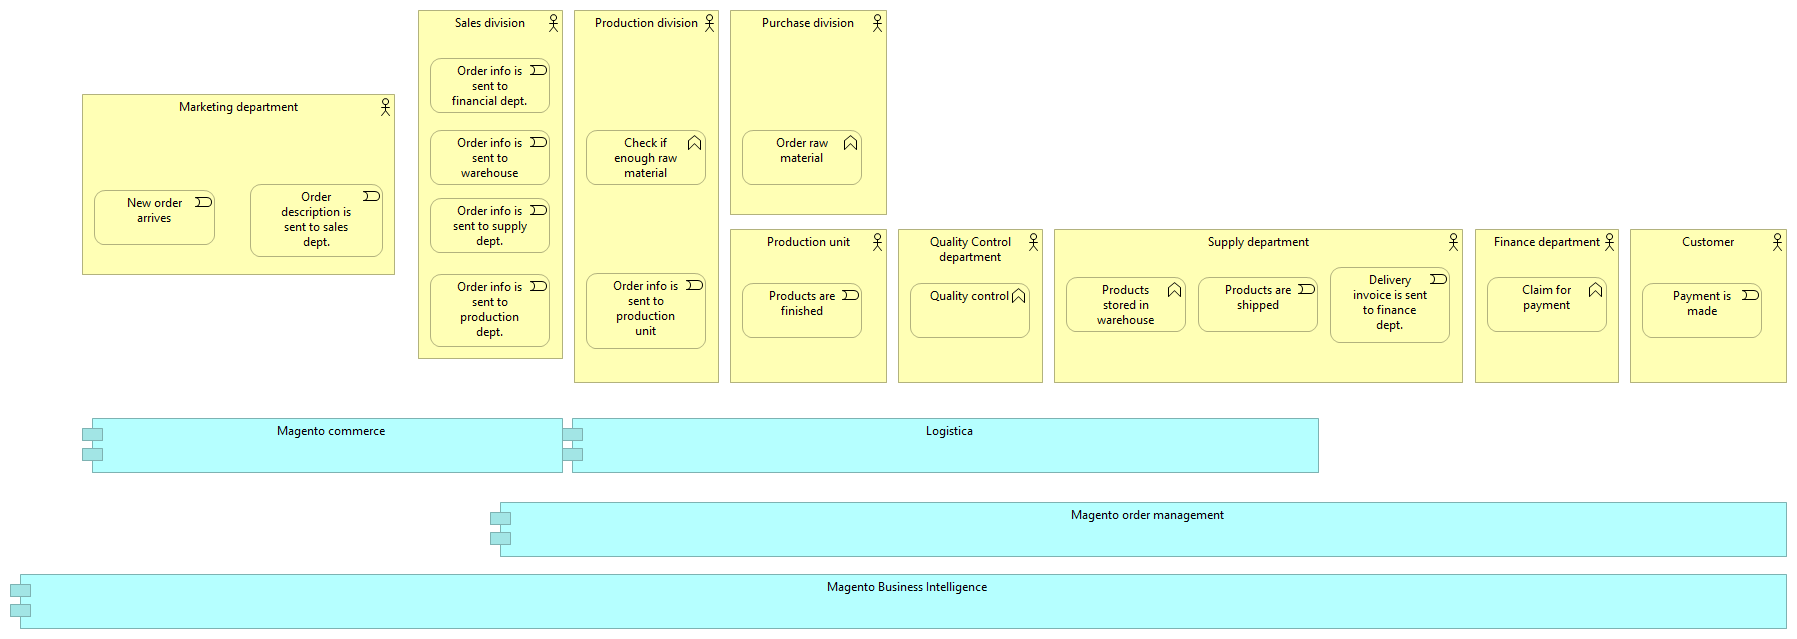
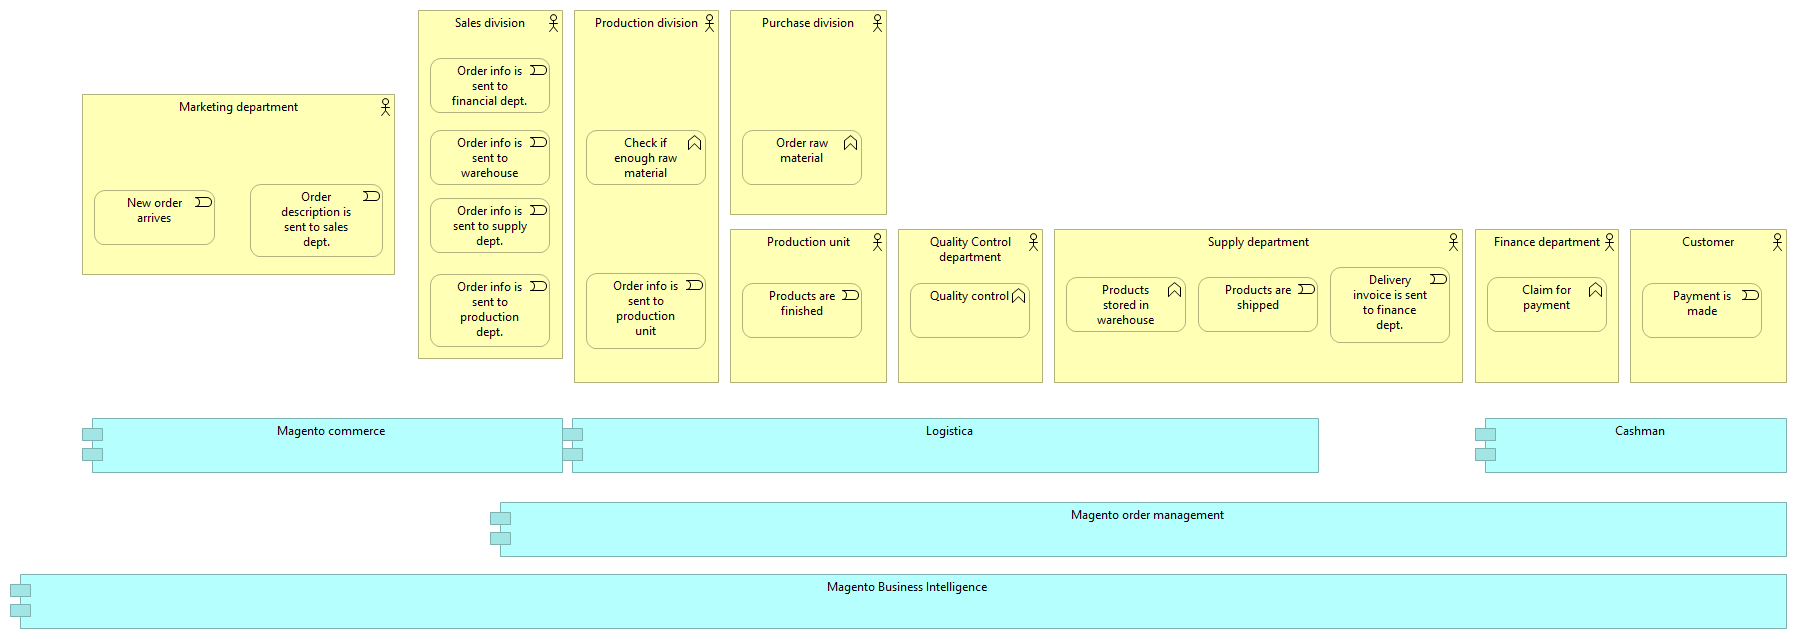
fic

Changed region(s): [[0.8102, 0.6541, 0.9972, 0.7433]]

diff --git a/42f59c99-faf0-4d5c-b5a2-6ce0e822152d/views/bc4e07df-153d-4a55-b80c-66b8556efbca.html b/42f59c99-faf0-4d5c-b5a2-6ce0e822152d/views/bc4e07df-153d-4a55-b80c-66b8556efbca.html
@@ -34,33 +34,35 @@
 		    <!-- If this is a digram model (has children and no bounds) show the image -->
 			   <img class="diagram" src="../images/bc4e07df-153d-4a55-b80c-66b8556efbca.png" alt="Current data sources and input methods" usemap="#bc4e07df-153d-4a55-b80c-66b8556efbcamap"/>
 			   <map name="bc4e07df-153d-4a55-b80c-66b8556efbcamap">
-				  		<area shape="rect" coords="910,490,1030,545" href="../elements/2fd25062-9433-4f65-b8ba-7481f6d7f87b.html"  target="element">
-				  		<area shape="rect" coords="1354,562,1474,617" href="../elements/cc09da40-db86-43a6-92d5-107572056f6c.html"  target="element">
-				  		<area shape="rect" coords="910,562,1030,617" href="../elements/e7a264f1-4df1-4139-97e9-daf2ff82ac94.html"  target="element">
-				  				<area shape="rect" coords="442,118,562,173" href="../elements/3e857f4e-97c8-4d80-89ca-6b3173587f4b.html"  target="element">
-				  				<area shape="rect" coords="442,58,562,113" href="../elements/3b25b6bc-363c-41df-812b-6ef97e0f71d7.html"  target="element">
-				  				<area shape="rect" coords="442,178,562,239" href="../elements/422ab703-66ee-474a-a261-2182505d0774.html"  target="element">
+				  		<area shape="rect" coords="944,524,1064,579" href="../elements/2fd25062-9433-4f65-b8ba-7481f6d7f87b.html"  target="element">
+				  		<area shape="rect" coords="1388,596,1508,651" href="../elements/cc09da40-db86-43a6-92d5-107572056f6c.html"  target="element">
+				  		<area shape="rect" coords="944,596,1064,651" href="../elements/e7a264f1-4df1-4139-97e9-daf2ff82ac94.html"  target="element">
+				  				<area shape="rect" coords="476,152,596,207" href="../elements/3e857f4e-97c8-4d80-89ca-6b3173587f4b.html"  target="element">
+				  				<area shape="rect" coords="476,92,596,147" href="../elements/3b25b6bc-363c-41df-812b-6ef97e0f71d7.html"  target="element">
+				  				<area shape="rect" coords="476,212,596,273" href="../elements/422ab703-66ee-474a-a261-2182505d0774.html"  target="element">
 
-				  		<area shape="rect" coords="394,10,611,431" href="../elements/54daba34-8e5e-4b3a-aa06-c3dce19e5199.html"  target="element">
-				  				<area shape="rect" coords="1222,178,1342,233" href="../elements/aa11c7f0-06c8-4865-ba02-6b9973770f7b.html"  target="element">
-				  				<area shape="rect" coords="1222,310,1342,365" href="../elements/97299300-cbb5-47a2-a4d8-c7b2a0fefa15.html"  target="element">
-				  				<area shape="rect" coords="1222,58,1342,113" href="../elements/3b25b6bc-363c-41df-812b-6ef97e0f71d7.html"  target="element">
-				  				<area shape="rect" coords="1222,118,1342,173" href="../elements/3e857f4e-97c8-4d80-89ca-6b3173587f4b.html"  target="element">
-				  				<area shape="rect" coords="1222,244,1342,299" href="../elements/580e849d-6b1a-4df6-88cc-1bf90a132134.html"  target="element">
-				  				<area shape="rect" coords="1222,370,1342,425" href="../elements/4f38b815-73b9-49b3-b24e-d3d7f970c897.html"  target="element">
+				  		<area shape="rect" coords="428,44,645,465" href="../elements/54daba34-8e5e-4b3a-aa06-c3dce19e5199.html"  target="element">
+				  				<area shape="rect" coords="1280,212,1400,267" href="../elements/aa11c7f0-06c8-4865-ba02-6b9973770f7b.html"  target="element">
+				  				<area shape="rect" coords="1280,344,1400,399" href="../elements/97299300-cbb5-47a2-a4d8-c7b2a0fefa15.html"  target="element">
+				  				<area shape="rect" coords="1280,92,1400,147" href="../elements/3b25b6bc-363c-41df-812b-6ef97e0f71d7.html"  target="element">
+				  				<area shape="rect" coords="1280,152,1400,207" href="../elements/3e857f4e-97c8-4d80-89ca-6b3173587f4b.html"  target="element">
+				  				<area shape="rect" coords="1280,278,1400,333" href="../elements/580e849d-6b1a-4df6-88cc-1bf90a132134.html"  target="element">
+				  				<area shape="rect" coords="1280,404,1400,459" href="../elements/4f38b815-73b9-49b3-b24e-d3d7f970c897.html"  target="element">
 
-				  		<area shape="rect" coords="1174,10,1391,431" href="../elements/0cca7574-e96f-406b-ab5c-9b7da6b64e3f.html"  target="element">
-				  				<area shape="rect" coords="58,58,178,113" href="../elements/3b25b6bc-363c-41df-812b-6ef97e0f71d7.html"  target="element">
-				  				<area shape="rect" coords="58,118,178,173" href="../elements/3e857f4e-97c8-4d80-89ca-6b3173587f4b.html"  target="element">
+				  		<area shape="rect" coords="1232,44,1449,465" href="../elements/0cca7574-e96f-406b-ab5c-9b7da6b64e3f.html"  target="element">
+				  				<area shape="rect" coords="92,224,212,279" href="../elements/aa11c7f0-06c8-4865-ba02-6b9973770f7b.html"  target="element">
+				  				<area shape="rect" coords="92,92,212,147" href="../elements/3b25b6bc-363c-41df-812b-6ef97e0f71d7.html"  target="element">
+				  				<area shape="rect" coords="92,164,212,219" href="../elements/3e857f4e-97c8-4d80-89ca-6b3173587f4b.html"  target="element">
 
-				  		<area shape="rect" coords="10,10,227,431" href="../elements/0e4886f3-55bf-46f9-b257-d7ff4399859a.html"  target="element">
-				  				<area shape="rect" coords="790,178,910,233" href="../elements/d4060f14-0cee-48bc-986a-456c61db983b.html"  target="element">
-				  				<area shape="rect" coords="790,238,910,293" href="../elements/d833da6a-b355-48e6-b8fa-f2233d4827ba.html"  target="element">
-				  				<area shape="rect" coords="790,298,910,353" href="../elements/97299300-cbb5-47a2-a4d8-c7b2a0fefa15.html"  target="element">
-				  				<area shape="rect" coords="790,58,910,113" href="../elements/3b25b6bc-363c-41df-812b-6ef97e0f71d7.html"  target="element">
-				  				<area shape="rect" coords="790,118,910,173" href="../elements/aa11c7f0-06c8-4865-ba02-6b9973770f7b.html"  target="element">
+				  		<area shape="rect" coords="44,44,261,465" href="../elements/0e4886f3-55bf-46f9-b257-d7ff4399859a.html"  target="element">
+				  				<area shape="rect" coords="824,392,944,447" href="../elements/3e857f4e-97c8-4d80-89ca-6b3173587f4b.html"  target="element">
+				  				<area shape="rect" coords="824,212,944,267" href="../elements/d4060f14-0cee-48bc-986a-456c61db983b.html"  target="element">
+				  				<area shape="rect" coords="824,272,944,327" href="../elements/d833da6a-b355-48e6-b8fa-f2233d4827ba.html"  target="element">
+				  				<area shape="rect" coords="824,332,944,387" href="../elements/97299300-cbb5-47a2-a4d8-c7b2a0fefa15.html"  target="element">
+				  				<area shape="rect" coords="824,92,944,147" href="../elements/3b25b6bc-363c-41df-812b-6ef97e0f71d7.html"  target="element">
+				  				<area shape="rect" coords="824,152,944,207" href="../elements/aa11c7f0-06c8-4865-ba02-6b9973770f7b.html"  target="element">
 
-				  		<area shape="rect" coords="742,10,947,431" href="../elements/6a1cd121-5fab-48bc-9249-bc2f369f2929.html"  target="element">
+				  		<area shape="rect" coords="776,44,981,465" href="../elements/6a1cd121-5fab-48bc-9249-bc2f369f2929.html"  target="element">
 
 			   </map>
 
@@ -135,6 +137,11 @@
 													    <td> <a href="../elements/d4060f14-0cee-48bc-986a-456c61db983b.html" target="element" class="i18n-elementtype-DataObject"> </a> </td>
 													</tr>
 
+													<tr>
+													    <td> <a href="../elements/3e857f4e-97c8-4d80-89ca-6b3173587f4b.html" target="element"> Customer information </a> </td>
+													    <td> <a href="../elements/3e857f4e-97c8-4d80-89ca-6b3173587f4b.html" target="element" class="i18n-elementtype-DataObject"> </a> </td>
+													</tr>
+
 											
 											<tr>
 											    <td> <a href="../elements/0e4886f3-55bf-46f9-b257-d7ff4399859a.html" target="element"> SalesFront </a> </td>
@@ -149,6 +156,11 @@
 													<tr>
 													    <td> <a href="../elements/3b25b6bc-363c-41df-812b-6ef97e0f71d7.html" target="element"> Product information </a> </td>
 													    <td> <a href="../elements/3b25b6bc-363c-41df-812b-6ef97e0f71d7.html" target="element" class="i18n-elementtype-DataObject"> </a> </td>
+													</tr>
+
+													<tr>
+													    <td> <a href="../elements/aa11c7f0-06c8-4865-ba02-6b9973770f7b.html" target="element"> Order information </a> </td>
+													    <td> <a href="../elements/aa11c7f0-06c8-4865-ba02-6b9973770f7b.html" target="element" class="i18n-elementtype-DataObject"> </a> </td>
 													</tr>
 
 											
@@ -245,12 +257,31 @@
 																				<td> <a href="../elements/aa11c7f0-06c8-4865-ba02-6b9973770f7b.html" target="element"> Order information </a> </td>
 																				<td> <a href="../elements/6a1cd121-5fab-48bc-9249-bc2f369f2929.html" target="element"> Logistica </a> </td>
 																			</tr>
+																			<tr>
+																				<td> <a href="../elements/de154ba4-144d-445b-9af5-d9c80170c1ca.html" target="element"> Batch textfile transfer </a> </td>
+																				<td> <a href="../elements/de154ba4-144d-445b-9af5-d9c80170c1ca.html" target="element" class="i18n-elementtype-AssociationRelationship"></a> </td>
+																				<td> <a href="../elements/aa11c7f0-06c8-4865-ba02-6b9973770f7b.html" target="element"> Order information </a> </td>
+																				<td> <a href="../elements/aa11c7f0-06c8-4865-ba02-6b9973770f7b.html" target="element"> Order information </a> </td>
+																			</tr>
 
 											
 																			<tr>
 																				<td> <a href="../elements/e2796609-a313-4fdd-80ed-c8e53865b99f.html" target="element">  </a> </td>
 																				<td> <a href="../elements/e2796609-a313-4fdd-80ed-c8e53865b99f.html" target="element" class="i18n-elementtype-AssociationRelationship"></a> </td>
 																				<td> <a href="../elements/3e857f4e-97c8-4d80-89ca-6b3173587f4b.html" target="element"> Customer information </a> </td>
+																				<td> <a href="../elements/0e4886f3-55bf-46f9-b257-d7ff4399859a.html" target="element"> SalesFront </a> </td>
+																			</tr>
+																			<tr>
+																				<td> <a href="../elements/a6d2567e-9dfd-44fb-9f10-90523dd250ed.html" target="element"> Batch textfile transfer </a> </td>
+																				<td> <a href="../elements/a6d2567e-9dfd-44fb-9f10-90523dd250ed.html" target="element" class="i18n-elementtype-AssociationRelationship"></a> </td>
+																				<td> <a href="../elements/3e857f4e-97c8-4d80-89ca-6b3173587f4b.html" target="element"> Customer information </a> </td>
+																				<td> <a href="../elements/3e857f4e-97c8-4d80-89ca-6b3173587f4b.html" target="element"> Customer information </a> </td>
+																			</tr>
+
+																			<tr>
+																				<td> <a href="../elements/bdbc383a-a72c-4439-8643-895886636bfb.html" target="element">  </a> </td>
+																				<td> <a href="../elements/bdbc383a-a72c-4439-8643-895886636bfb.html" target="element" class="i18n-elementtype-AssociationRelationship"></a> </td>
+																				<td> <a href="../elements/aa11c7f0-06c8-4865-ba02-6b9973770f7b.html" target="element"> Order information </a> </td>
 																				<td> <a href="../elements/0e4886f3-55bf-46f9-b257-d7ff4399859a.html" target="element"> SalesFront </a> </td>
 																			</tr>
 

diff --git a/42f59c99-faf0-4d5c-b5a2-6ce0e822152d/elements/model.html b/42f59c99-faf0-4d5c-b5a2-6ce0e822152d/elements/model.html
@@ -764,6 +764,10 @@
 										dataRelationships.push({id:"4bb49b5b-ec46-43cf-a46a-1ebe48dd4330", type:"AssociationRelationship", name:decodeURL("Registers+invoice"), documentation:decodeURL(""), sourceid:"cc09da40-db86-43a6-92d5-107572056f6c", targetid:"4f38b815-73b9-49b3-b24e-d3d7f970c897"});
 									dataFoldersContent.push({folderid:"955d4044-8bf8-4ae3-9c84-40e61952b7c3", contentid:"93138816-ea9e-4613-9511-49e6b670039b", contenttype:"AssociationRelationship"});
 										dataRelationships.push({id:"93138816-ea9e-4613-9511-49e6b670039b", type:"AssociationRelationship", name:decodeURL("Registers+production+data"), documentation:decodeURL("Every+friday"), sourceid:"2fd25062-9433-4f65-b8ba-7481f6d7f87b", targetid:"d4060f14-0cee-48bc-986a-456c61db983b"});
+									dataFoldersContent.push({folderid:"955d4044-8bf8-4ae3-9c84-40e61952b7c3", contentid:"de154ba4-144d-445b-9af5-d9c80170c1ca", contenttype:"AssociationRelationship"});
+										dataRelationships.push({id:"de154ba4-144d-445b-9af5-d9c80170c1ca", type:"AssociationRelationship", name:decodeURL("Batch+textfile+transfer"), documentation:decodeURL("Every+morning"), sourceid:"aa11c7f0-06c8-4865-ba02-6b9973770f7b", targetid:"aa11c7f0-06c8-4865-ba02-6b9973770f7b"});
+									dataFoldersContent.push({folderid:"955d4044-8bf8-4ae3-9c84-40e61952b7c3", contentid:"a6d2567e-9dfd-44fb-9f10-90523dd250ed", contenttype:"AssociationRelationship"});
+										dataRelationships.push({id:"a6d2567e-9dfd-44fb-9f10-90523dd250ed", type:"AssociationRelationship", name:decodeURL("Batch+textfile+transfer"), documentation:decodeURL(""), sourceid:"3e857f4e-97c8-4d80-89ca-6b3173587f4b", targetid:"3e857f4e-97c8-4d80-89ca-6b3173587f4b"});
 
 								dataFoldersContent.push({folderid:"42f59c99-faf0-4d5c-b5a2-6ce0e822152d", contentid:"4a6e2f0c-0590-4777-98ec-1a9138846fde", contenttype:"Folder"});
 								dataFolders.push({id:"4a6e2f0c-0590-4777-98ec-1a9138846fde", type:"Folder", name:decodeURL("Views"), documentation:decodeURL("")});
@@ -1445,6 +1449,7 @@
 													dataViewsContent.push({viewid:"8bc79c3f-b973-494c-8b9d-3f707bf2e2bb", contentid:"dd4a733e-8e92-415c-b72c-fa00789476f1", contenttype:"DiagramModelArchimateObject"});
 													dataViewsContent.push({viewid:"8bc79c3f-b973-494c-8b9d-3f707bf2e2bb", contentid:"92175cc8-96fd-41f6-922b-c696c816e0b9", contenttype:"DiagramModelArchimateObject"});
 													dataViewsContent.push({viewid:"8bc79c3f-b973-494c-8b9d-3f707bf2e2bb", contentid:"1f8a0dd1-0bb7-46dd-a13d-35977c57f02c", contenttype:"DiagramModelArchimateObject"});
+													dataViewsContent.push({viewid:"8bc79c3f-b973-494c-8b9d-3f707bf2e2bb", contentid:"f9a3a48b-964a-425f-af65-1d6ce3548a3f", contenttype:"DiagramModelArchimateObject"});
 
 													
 													
@@ -1500,10 +1505,12 @@
 															dataViewsContent.push({viewid:"bc4e07df-153d-4a55-b80c-66b8556efbca", contentid:"18cb8e70-96c1-4838-8aa4-de877a864256", contenttype:"DiagramModelArchimateObject"});
 															dataViewsContent.push({viewid:"bc4e07df-153d-4a55-b80c-66b8556efbca", contentid:"8fadfdf2-18d0-488c-a2d6-d81685317889", contenttype:"DiagramModelArchimateObject"});
 															dataViewsContent.push({viewid:"bc4e07df-153d-4a55-b80c-66b8556efbca", contentid:"1d236de8-fbe6-48c0-bde6-7b65d6fd3cbd", contenttype:"DiagramModelArchimateObject"});
+															dataViewsContent.push({viewid:"bc4e07df-153d-4a55-b80c-66b8556efbca", contentid:"52f6be10-d151-4af2-9b5b-1efe91568a2b", contenttype:"DiagramModelArchimateObject"});
 													
 													dataViewsContent.push({viewid:"bc4e07df-153d-4a55-b80c-66b8556efbca", contentid:"2bea780a-6c13-44e9-91a5-e015224c079c", contenttype:"DiagramModelArchimateObject"});
 															dataViewsContent.push({viewid:"bc4e07df-153d-4a55-b80c-66b8556efbca", contentid:"b0ab9f7e-02a0-4354-b80f-a5ef80f7b555", contenttype:"DiagramModelArchimateObject"});
 															dataViewsContent.push({viewid:"bc4e07df-153d-4a55-b80c-66b8556efbca", contentid:"db726e57-eef2-4c40-98c5-f557d5f63ce9", contenttype:"DiagramModelArchimateObject"});
+															dataViewsContent.push({viewid:"bc4e07df-153d-4a55-b80c-66b8556efbca", contentid:"42a7bbdd-7e07-4583-9bed-3522a15bf2dd", contenttype:"DiagramModelArchimateObject"});
 													
 													dataViewsContent.push({viewid:"bc4e07df-153d-4a55-b80c-66b8556efbca", contentid:"9cb1b0a5-fd59-467e-b6c6-2177b3428c7a", contenttype:"DiagramModelArchimateObject"});
 															dataViewsContent.push({viewid:"bc4e07df-153d-4a55-b80c-66b8556efbca", contentid:"ed4c5494-12a8-422d-98c0-51481658d239", contenttype:"DiagramModelArchimateObject"});
@@ -1523,9 +1530,13 @@
 													dataViewsContent.push({viewid:"bc4e07df-153d-4a55-b80c-66b8556efbca", contentid:"d8f8849d-d660-49d3-af70-fd2947bf417b", contenttype:"DiagramModelArchimateObject"});
 
 																					dataViewsContent.push({viewid:"bc4e07df-153d-4a55-b80c-66b8556efbca", contentid:"72f60517-f462-4899-bc5f-c5396433bfb9", contenttype:"DiagramModelArchimateConnection"});
+																					dataViewsContent.push({viewid:"bc4e07df-153d-4a55-b80c-66b8556efbca", contentid:"57e2dbf9-e7e1-46b1-ae91-f40222fe0f35", contenttype:"DiagramModelArchimateConnection"});
 
 													
 																					dataViewsContent.push({viewid:"bc4e07df-153d-4a55-b80c-66b8556efbca", contentid:"2c98d10b-ea1f-4c0b-b60a-efc8d894b801", contenttype:"DiagramModelArchimateConnection"});
+																					dataViewsContent.push({viewid:"bc4e07df-153d-4a55-b80c-66b8556efbca", contentid:"09bcfd3e-f37c-42e8-8aea-e6e2e08b8933", contenttype:"DiagramModelArchimateConnection"});
+
+																					dataViewsContent.push({viewid:"bc4e07df-153d-4a55-b80c-66b8556efbca", contentid:"21c5cb71-af6f-4592-b31f-c5cf053ad1b9", contenttype:"DiagramModelArchimateConnection"});
 
 													
 																			dataViewsContent.push({viewid:"bc4e07df-153d-4a55-b80c-66b8556efbca", contentid:"e2b15a80-0ce8-4272-b1da-76334594e61b", contenttype:"DiagramModelArchimateConnection"});

diff --git a/42f59c99-faf0-4d5c-b5a2-6ce0e822152d/elements/de154ba4-144d-445b-9af5-d9c80170c1ca.html b/42f59c99-faf0-4d5c-b5a2-6ce0e822152d/elements/de154ba4-144d-445b-9af5-d9c80170c1ca.html
@@ -1,0 +1,80 @@
+<!DOCTYPE HTML PUBLIC "-//W3C//DTD HTML 4.01 Transitional//EN" "http://www.w3.org/TR/html4/loose.dtd">
+<html class="frame" lang="en">
+<head>
+	<meta http-equiv="Content-Type" content="text/html;charset=utf-8">
+	<title>Batch textfile transfer</title>
+
+	<!-- JQUERY (use 1.x branch to be compatible with IE 6/7/8) -->
+	<script type="text/javascript" src="../../lib/jquery/js/jquery-1.11.2.min.js"></script>
+	<!-- BOOTSTRAP -->
+	<link type="text/css" rel="stylesheet" href="../../lib/bootstrap/css/bootstrap-3.3.2.min.css">
+	<link type="text/css" rel="stylesheet" href="../../lib/bootstrap/css/bootstrap-theme-3.3.2.min.css">
+	<script type="text/javascript" src="../../lib/bootstrap/js/bootstrap-3.3.2.min.js"></script>
+	<!-- REPORT SPECIFIC -->
+	<link type="text/css" rel="stylesheet" href="../../css/model.css">
+	<link type="text/css" rel="stylesheet" href="../../css/i18n.css">
+	<script type="text/javascript" src="../../js/frame.js"></script>
+	<script type="text/javascript" src="../../js/imageMapResizer.min.js"></script>
+</head>
+
+<body>
+	<div class="panel panel-default root-panel">
+
+		<div class="panel-heading root-panel-heading">
+            <!-- Name -->
+               <b>Batch textfile transfer</b>
+
+            <!-- If a View with Viewpoint -->
+			   (<span class="i18n-elementtype-AssociationRelationship"></span>)
+			   <a class="glyphicon glyphicon-info-sign" id="hint-AssociationRelationship" target="hint"></a>
+		</div>
+
+		<div class="panel-body root-panel-body">
+		    <!-- If this is a digram model (has children and no bounds) show the image -->
+
+			<div role="tabpanel">
+				<!-- Nav tabs -->
+				<ul class="nav nav-tabs" role="tablist">
+                    <!-- Purpose / Documentation / Content -->
+					   <li role="presentation" class="active"><a href="#documentation" aria-controls="documentation" role="tab" data-toggle="tab" class="i18n-documentation"></a></li>
+
+                    <!-- Properties -->
+                    <li role="presentation"><a href="#properties" aria-controls="properties" role="tab" data-toggle="tab" class="i18n-properties"></a></li>
+
+				</ul>
+
+				<!-- Tab panes -->
+				<div class="tab-content">
+					<div role="tabpanel" class="tab-pane active" id="documentation">
+							<br>
+							<b class="i18n-relation-source"></b>
+								<a href="../elements/aa11c7f0-06c8-4865-ba02-6b9973770f7b.html" target="element">
+									Order information
+								</a> <br>
+							<b class="i18n-relation-target"></b>
+								<a href="../elements/aa11c7f0-06c8-4865-ba02-6b9973770f7b.html" target="element">
+									Order information
+								</a> <br>
+							<br>
+						<textarea id="docsrc" style="display:none">Every morning</textarea>
+						<div id="doctgt" style="white-space:pre-wrap"></div>
+					</div>
+					<div role="tabpanel" class="tab-pane" id="properties">
+						<table class="table table-striped table-hover table-condensed">
+							<thead>
+								<tr>
+									<th class="i18n-key"></th>
+									<th class="i18n-value"></th>
+								</tr>
+							</thead>
+							<tbody>
+							</tbody>
+						</table>
+					</div>
+			  </div>
+			</div>
+		</div>
+	</div>
+	<script type="text/javascript">imageMapResize();</script>
+</body>
+</html>

diff --git a/42f59c99-faf0-4d5c-b5a2-6ce0e822152d/elements/a6d2567e-9dfd-44fb-9f10-90523dd250ed.html b/42f59c99-faf0-4d5c-b5a2-6ce0e822152d/elements/a6d2567e-9dfd-44fb-9f10-90523dd250ed.html
@@ -1,0 +1,80 @@
+<!DOCTYPE HTML PUBLIC "-//W3C//DTD HTML 4.01 Transitional//EN" "http://www.w3.org/TR/html4/loose.dtd">
+<html class="frame" lang="en">
+<head>
+	<meta http-equiv="Content-Type" content="text/html;charset=utf-8">
+	<title>Batch textfile transfer</title>
+
+	<!-- JQUERY (use 1.x branch to be compatible with IE 6/7/8) -->
+	<script type="text/javascript" src="../../lib/jquery/js/jquery-1.11.2.min.js"></script>
+	<!-- BOOTSTRAP -->
+	<link type="text/css" rel="stylesheet" href="../../lib/bootstrap/css/bootstrap-3.3.2.min.css">
+	<link type="text/css" rel="stylesheet" href="../../lib/bootstrap/css/bootstrap-theme-3.3.2.min.css">
+	<script type="text/javascript" src="../../lib/bootstrap/js/bootstrap-3.3.2.min.js"></script>
+	<!-- REPORT SPECIFIC -->
+	<link type="text/css" rel="stylesheet" href="../../css/model.css">
+	<link type="text/css" rel="stylesheet" href="../../css/i18n.css">
+	<script type="text/javascript" src="../../js/frame.js"></script>
+	<script type="text/javascript" src="../../js/imageMapResizer.min.js"></script>
+</head>
+
+<body>
+	<div class="panel panel-default root-panel">
+
+		<div class="panel-heading root-panel-heading">
+            <!-- Name -->
+               <b>Batch textfile transfer</b>
+
+            <!-- If a View with Viewpoint -->
+			   (<span class="i18n-elementtype-AssociationRelationship"></span>)
+			   <a class="glyphicon glyphicon-info-sign" id="hint-AssociationRelationship" target="hint"></a>
+		</div>
+
+		<div class="panel-body root-panel-body">
+		    <!-- If this is a digram model (has children and no bounds) show the image -->
+
+			<div role="tabpanel">
+				<!-- Nav tabs -->
+				<ul class="nav nav-tabs" role="tablist">
+                    <!-- Purpose / Documentation / Content -->
+					   <li role="presentation" class="active"><a href="#documentation" aria-controls="documentation" role="tab" data-toggle="tab" class="i18n-documentation"></a></li>
+
+                    <!-- Properties -->
+                    <li role="presentation"><a href="#properties" aria-controls="properties" role="tab" data-toggle="tab" class="i18n-properties"></a></li>
+
+				</ul>
+
+				<!-- Tab panes -->
+				<div class="tab-content">
+					<div role="tabpanel" class="tab-pane active" id="documentation">
+							<br>
+							<b class="i18n-relation-source"></b>
+								<a href="../elements/3e857f4e-97c8-4d80-89ca-6b3173587f4b.html" target="element">
+									Customer information
+								</a> <br>
+							<b class="i18n-relation-target"></b>
+								<a href="../elements/3e857f4e-97c8-4d80-89ca-6b3173587f4b.html" target="element">
+									Customer information
+								</a> <br>
+							<br>
+						<textarea id="docsrc" style="display:none"></textarea>
+						<div id="doctgt" style="white-space:pre-wrap"></div>
+					</div>
+					<div role="tabpanel" class="tab-pane" id="properties">
+						<table class="table table-striped table-hover table-condensed">
+							<thead>
+								<tr>
+									<th class="i18n-key"></th>
+									<th class="i18n-value"></th>
+								</tr>
+							</thead>
+							<tbody>
+							</tbody>
+						</table>
+					</div>
+			  </div>
+			</div>
+		</div>
+	</div>
+	<script type="text/javascript">imageMapResize();</script>
+</body>
+</html>

diff --git a/42f59c99-faf0-4d5c-b5a2-6ce0e822152d/views/8bc79c3f-b973-494c-8b9d-3f707bf2e2bb.html b/42f59c99-faf0-4d5c-b5a2-6ce0e822152d/views/8bc79c3f-b973-494c-8b9d-3f707bf2e2bb.html
@@ -34,6 +34,7 @@
 		    <!-- If this is a digram model (has children and no bounds) show the image -->
 			   <img class="diagram" src="../images/8bc79c3f-b973-494c-8b9d-3f707bf2e2bb.png" alt="Future Order process with events and functions and systems" usemap="#8bc79c3f-b973-494c-8b9d-3f707bf2e2bbmap"/>
 			   <map name="8bc79c3f-b973-494c-8b9d-3f707bf2e2bbmap">
+				  		<area shape="rect" coords="1475,418,1787,473" href="../elements/0cca7574-e96f-406b-ab5c-9b7da6b64e3f.html"  target="element">
 				  		<area shape="rect" coords="10,574,1787,629" href="../elements/1e4d4c1b-01a1-4348-8798-26e6f2bf2214.html"  target="element">
 				  		<area shape="rect" coords="490,502,1787,557" href="../elements/92e6d273-921d-4cce-8813-4ec48f2e2185.html"  target="element">
 				  		<area shape="rect" coords="82,418,563,473" href="../elements/0caaa0d8-8edc-43ea-8994-84f8366b595f.html"  target="element">
@@ -258,6 +259,11 @@
 											<tr>
 											    <td> <a href="../elements/1e4d4c1b-01a1-4348-8798-26e6f2bf2214.html" target="element"> Magento Business Intelligence </a> </td>
 											    <td> <a href="../elements/1e4d4c1b-01a1-4348-8798-26e6f2bf2214.html" target="element" class="i18n-elementtype-ApplicationComponent"> </a> </td>
+											</tr>
+
+											<tr>
+											    <td> <a href="../elements/0cca7574-e96f-406b-ab5c-9b7da6b64e3f.html" target="element"> Cashman </a> </td>
+											    <td> <a href="../elements/0cca7574-e96f-406b-ab5c-9b7da6b64e3f.html" target="element" class="i18n-elementtype-ApplicationComponent"> </a> </td>
 											</tr>
 
 

diff --git a/index.html b/index.html
@@ -919,6 +919,14 @@
 															Registers production data
 														(Production department manager - Manufacturing information) 
 													</a></li>
+													<li class="tree-element"><a href="42f59c99-faf0-4d5c-b5a2-6ce0e822152d/elements/de154ba4-144d-445b-9af5-d9c80170c1ca.html" target="element">
+															Batch textfile transfer
+														(Order information - Order information) 
+													</a></li>
+													<li class="tree-element"><a href="42f59c99-faf0-4d5c-b5a2-6ce0e822152d/elements/a6d2567e-9dfd-44fb-9f10-90523dd250ed.html" target="element">
+															Batch textfile transfer
+														(Customer information - Customer information) 
+													</a></li>
 
 									</ul>
 								</li>
